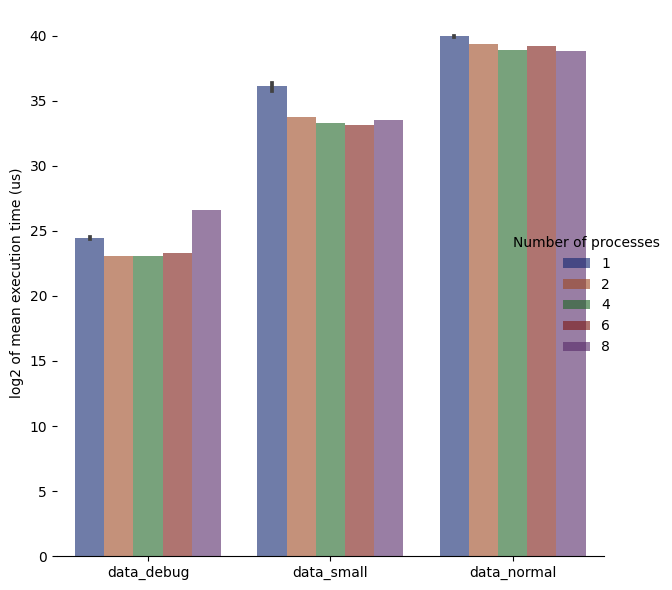
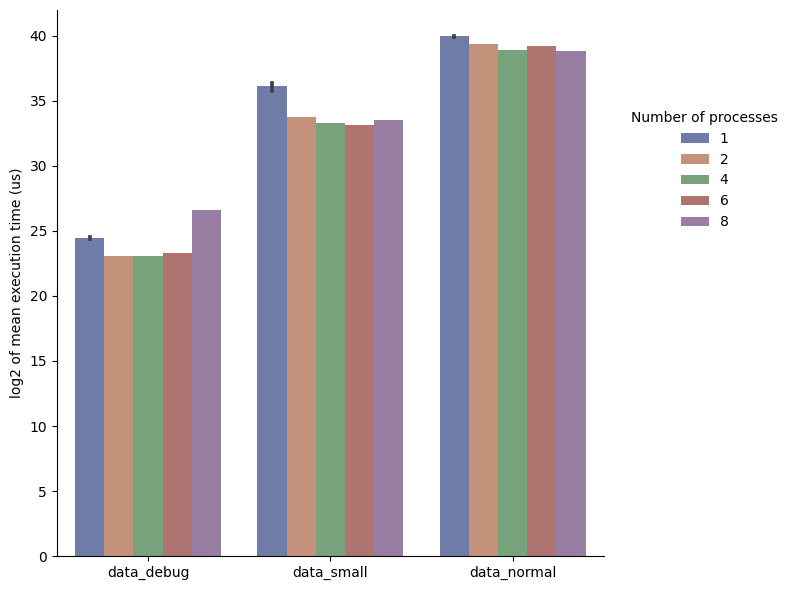
Added speedup visualization

diff --git a/results/benchmark_np.py b/results/benchmark_np.py
@@ -58,22 +58,43 @@ def extend_database(folder, database):
 def main():
     parent_folder = sys.argv[1]
     child_folders = glob.glob(os.path.join(parent_folder, "*/"))
-    child_folders = [*child_folders[:4], *child_folders[8:], *child_folders[4:8]]
     database = []
     for child_folder in child_folders:
         database = extend_database(child_folder, database)
 
     dataframe = pd.DataFrame(database)
     dataframe['exec_time_us_log'] = np.log2(dataframe['exec_time'] * 1e9)
+    plt.figure()
     g = sns.catplot(
         data=dataframe, kind="bar",
         x="dataset", y="exec_time_us_log", hue="np",
-        palette="dark", alpha=.6, height=6
+        order=['data_debug','data_small','data_normal'],
+        palette="dark", alpha=.6, height=6,
+        legend_out=True
     )
-    g.despine(left=True)
     g.set_axis_labels("", "log2 of mean execution time (us)")
     g.legend.set_title("Number of processes")
+    g._legend.set_bbox_to_anchor((1.2, .7))
     g.savefig(os.path.join(parent_folder,"benchmark_np.png"))
+
+    dataset_names = dataframe['dataset'].unique()
+    dataframe['speedup'] = [0.0] * len(dataframe)
+    for dataset_name in dataset_names:
+        dataset_local = dataframe[(dataframe['dataset'] == dataset_name) & (dataframe['np'] == 1)]
+        mean_local_exec_time = dataset_local['exec_time'].mean()
+        dataset_copy = dataframe[dataframe['dataset'] == dataset_name].copy()
+        dataset_copy['speedup'] = (dataset_copy['exec_time'] / mean_local_exec_time)**-1
+        dataframe[dataframe['dataset'] == dataset_name] = dataset_copy
+
+    dataframe_wo_local = dataframe[dataframe['np'] != 1]
+    plt.figure()
+    g = sns.lineplot(
+        x='np', y='speedup', hue='dataset', hue_order=['data_debug','data_small','data_normal'],
+        data=dataframe_wo_local
+    ).get_figure()
+    g.savefig(os.path.join(parent_folder,"benchmark_np_speedup.png"))
+
+        
     
     
 if __name__ == "__main__":
